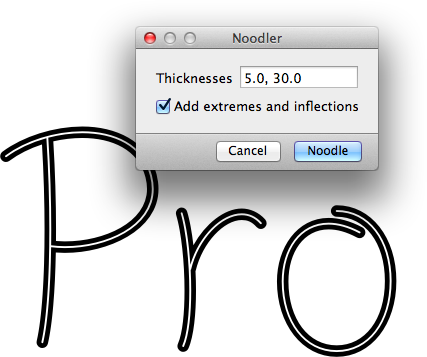
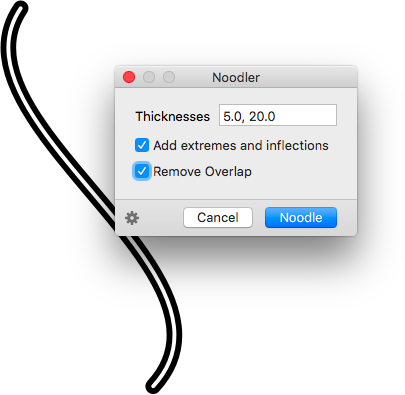
Updated Readme and Screenshots

diff --git a/README.md b/README.md
@@ -46,6 +46,14 @@ E.g.:
 
 The `<removeOverlap>` value defaults to `1` if you leave it out.
 
+### Copy and Paste the Custom Parameter
+
+Via the gear menu in the lower left corner of the window, you can copy a custom parameter for the current settings into your clipboard:
+
+![Copying a Noodler parameter into the clipboard.](Noodler_Parameter.png "Open the gear menu for copying the custom parameter into the clipboard.")
+
+Afterwards, you can go to *File > Font Info > Instances* (Cmd-I), select an instance in the sidebar of the window, click in the *Custom Parameters* field in order to set the focus, and simply paste it (Cmd-V).
+
 ### Requirements
 
 The plugin needs Glyphs 1.4.3 or higher, running on OS X 10.7 or later. I can only test it in current OS versions, and I assume it will not work in versions of Mac OS X older than 10.7.
